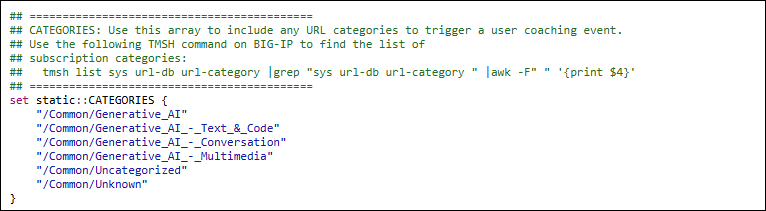
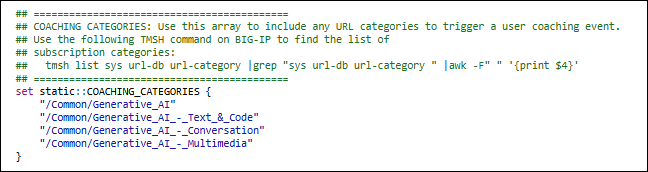
aw2025 class 6 updated coaching trigger

Changed region(s): [[0.0, 0.0581, 0.9568, 0.9012], [0.0, 0.0, 1.0, 1.0]]

diff --git a/docs/class6/module3/lab5.rst b/docs/class6/module3/lab5.rst
@@ -129,7 +129,7 @@ The presentation of the user coaching prompt is determined by a URL category mat
 
 #. Click on the **user-coaching-rule** iRule to view it.
 
-#. Notice that the **CATEGORIES** variable defines an array of URL categories.
+#. Notice that the **COACHING_CATEGORIES** variable defines an array of URL categories.
 
    .. image:: images/user-coaching-trigger.png
       :align: left
